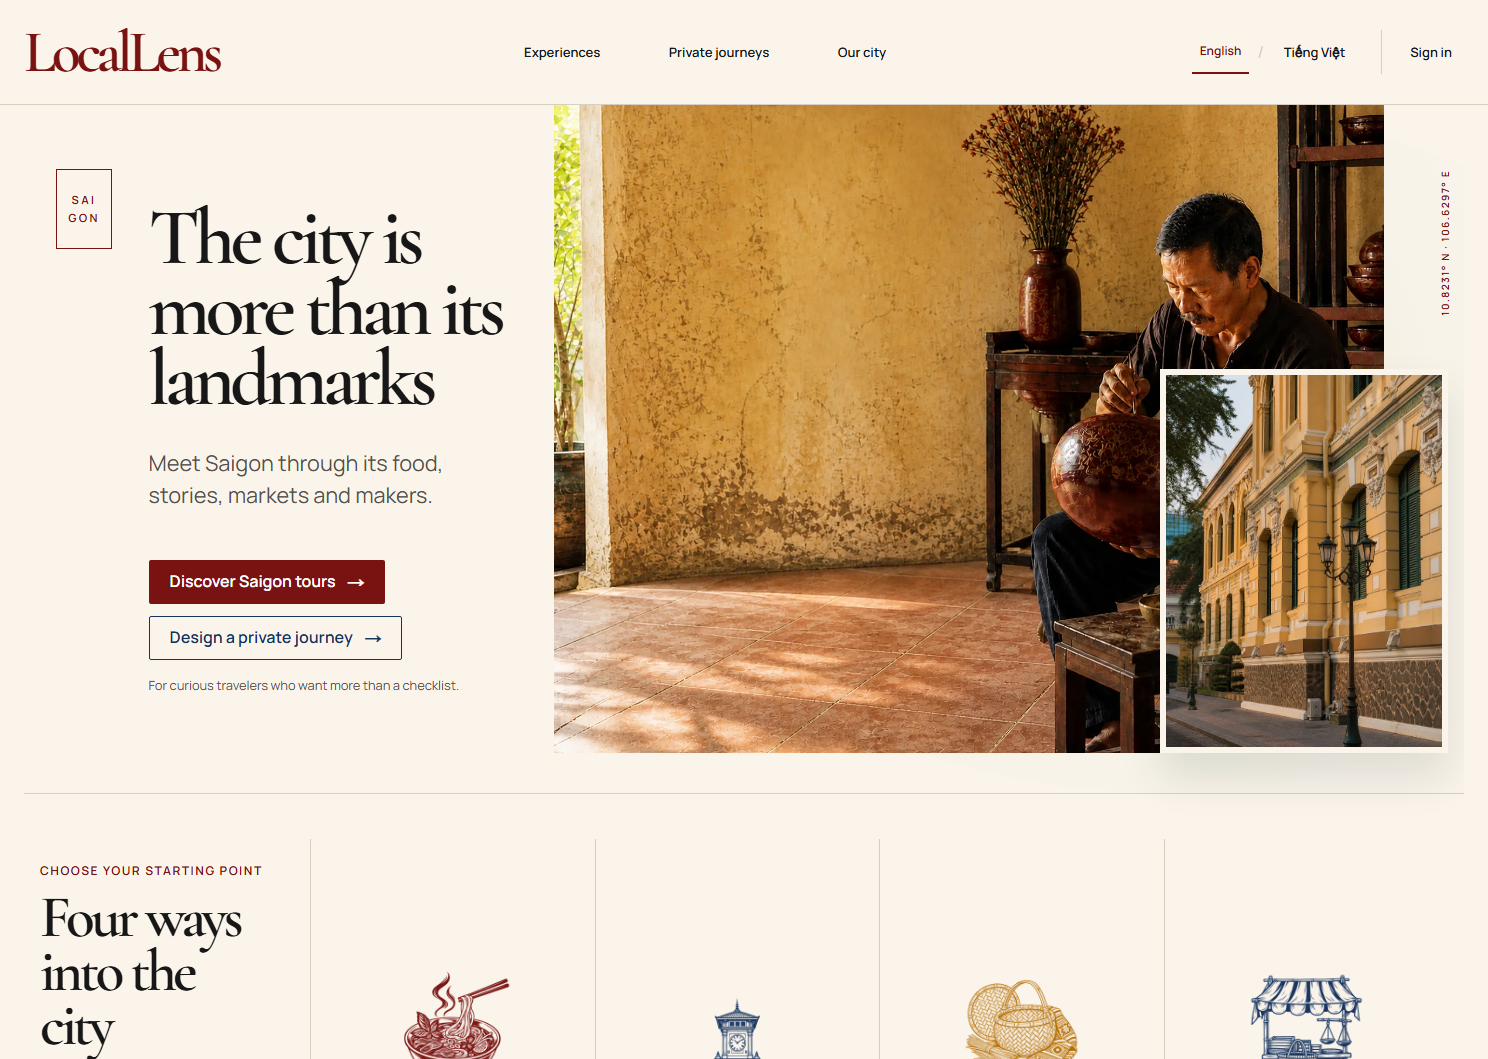
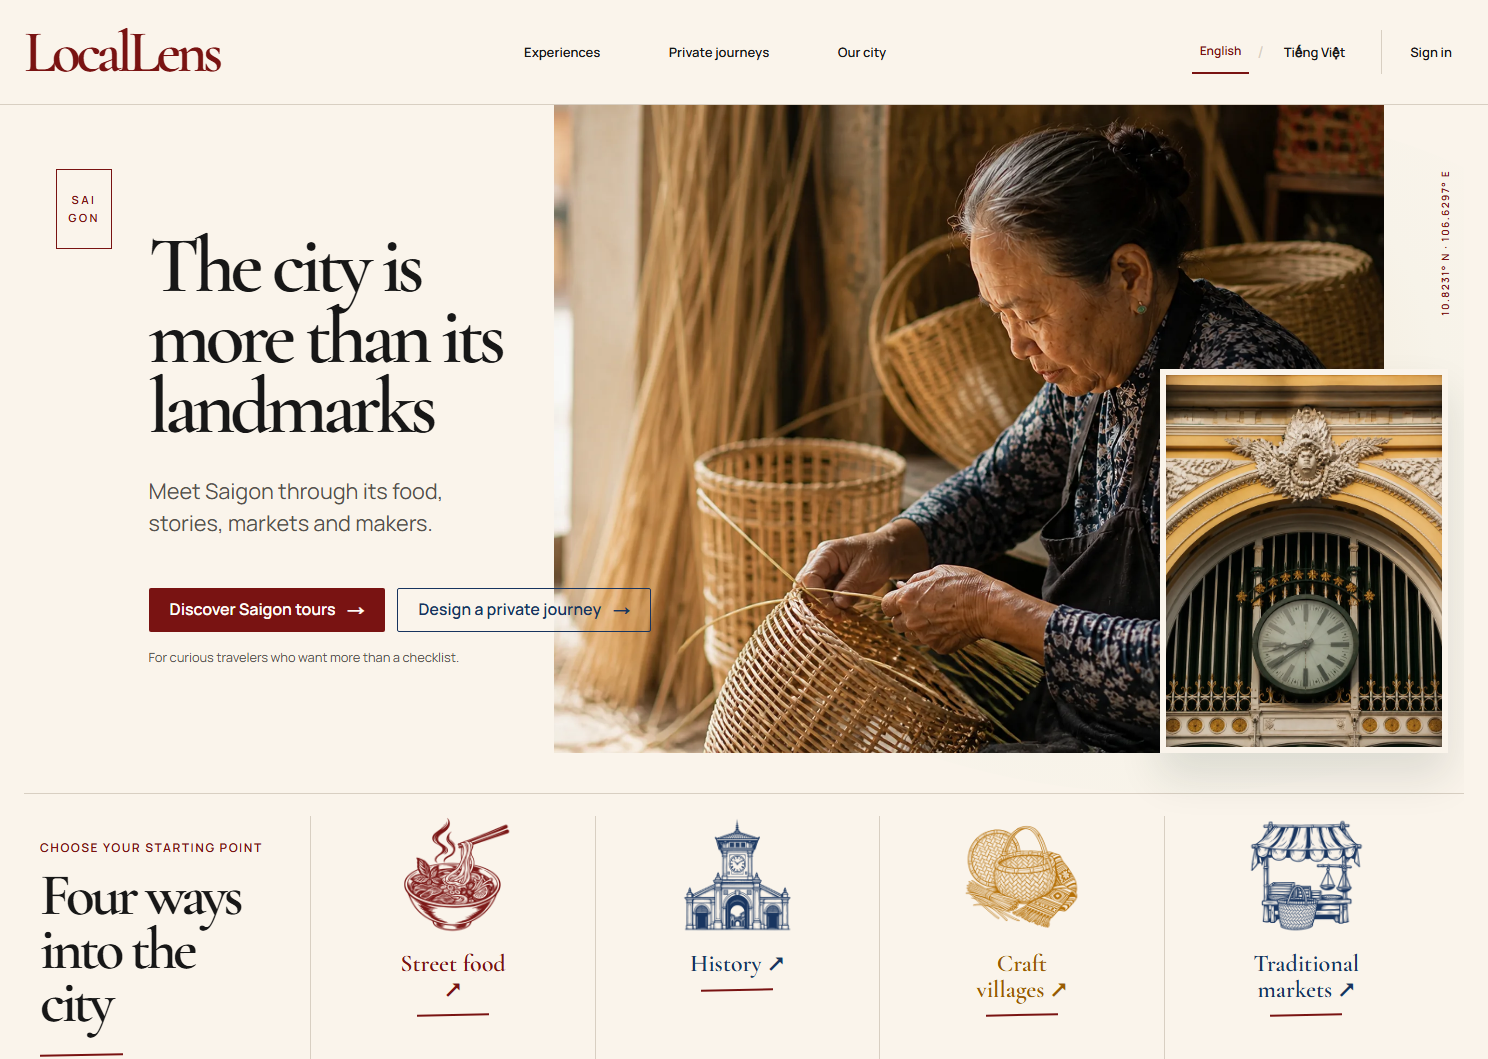
test: approve LocalLens editorial customer experience

diff --git a/design-qa.md b/design-qa.md
@@ -2,49 +2,52 @@
 
 ## Scope and evidence
 
[2 lines of base64/hex data omitted]
 - Desktop implementation capture: `docs/design/qa/home-desktop-implementation.png` (`1488 × 1059`).
 - Desktop full-view comparison: `docs/design/qa/home-desktop-comparison.png` (`2976 × 1059`, source and implementation side by side).
 - Tablet capture: `docs/design/qa/home-tablet.png` (`768 × 1024`).
 - Mobile capture: `docs/design/qa/home-mobile.png` (`390 × 844`).
-- QA-only equal-size derivatives used by `node scripts/process-editorial-assets.mjs compare`: `.superpowers/sdd/2026-08-30-localens-editorial-design-restoration/task-8-qa/reference-1488x1059.png` and `implementation-1488x1059.png`. Each was made on a `1488 × 1059` canvas by cropping the implementation capture to the native source size where needed, then extending the right and bottom edges by one pixel with the page-paper color. These derivatives are not the native source.
+- QA-only equal-size derivatives used by `node scripts/process-editorial-assets.mjs compare`: `.superpowers/sdd/2026-08-30-localens-editorial-design-restoration/task-8-qa/reference-1488x1059.png` and `implementation-1488x1059.png`. Each derives a `1488 × 1059` canvas by retaining the top-left `1487 × 1058` pixels and extending the right and bottom edges by one pixel with the page-paper color (`#FAF4EB`). These derivatives are not the native source.
 - Browser/state: Playwright Chromium, DPR 1, fresh localStorage/sessionStorage per page, reduced-motion media emulation, CSS animation/transition suppression for captures, local fonts and images awaited, no external data.
 - Route states: `/en/` and `/vi/` home, `/en/tours/` demo catalog, `/en/planner/` default demo proposal without a handoff, `/en/custom-request/` missing-handoff boundary, and `/en/booking/` with the allowlisted demo departure and `partySize=1`.
-- Full-page route evidence is also written to ignored `test-results/customer-visual/` for every route and viewport. The comparison is a visual review of the whole required desktop viewport, with focused inspection of the header, hero, CTAs, inset, and discovery row; no additional crop was needed to establish the findings below.
+- Full-page route evidence is written to ignored `test-results/customer-visual/` for every route and viewport. The combined desktop comparison is the primary whole-viewport evidence; focused inspection covered the header/navigation, hero title and mark, CTA group, hero/inset imagery, coordinates, and discovery row. Tablet and mobile captures were inspected separately for reflow, focus, contrast, and clipping.
 
 ## Surface verdicts
 
 | Surface | Verdict | Evidence |
 | --- | --- | --- |
-| Fonts and typography | Partial match | Display/body pairing and general editorial hierarchy are present; the implementation’s hero title/CTA scale and discovery text position do not match the selected source at the required desktop viewport. |
-| Spacing and layout | Blocked | Hero CTA buttons stack in the implementation while the selected source keeps them inline; discovery labels fall below the desktop viewport instead of appearing in the selected above-fold composition. |
-| Colors and tokens | Partial match | Paper, ink, vermilion, indigo, and ochre editorial palette are coherent; responsive ochre category text fails the measured normal-text contrast threshold below. |
-| Image quality | Blocked | Assets decode and load cleanly, but the hero and inset depict different scenes/crops from the selected source. |
-| Copy and content | Partial match | Core LocalLens copy is localized and readable; the selected source’s `Journal` navigation item and stamp detail are absent. |
-| Responsiveness | Pass with open visual findings | No horizontal overflow at 1488×1059, 768×1024, or 390×844; tablet/mobile stack cleanly, but the desktop/source fidelity findings remain open. |
-| Interactions | Pass | Route-correct home/tours/planner/custom-request/booking links, keyboard skip-link focus, and deterministic demo states were exercised. |
-| Accessibility | Blocked | Heading order, landmarks, form labels, image alt presence, visible focus, overflow, and browser diagnostics passed; tablet/mobile `Craft villages` text/link measured 3.70:1 against a 4.5:1 normal-text target. Text zoom and reduced-motion smoke checks are present in the suite, but this contrast finding remains actionable. |
+| Fonts and typography | Pass | Cormorant display and Manrope body pairing, hierarchy, wrapping, and EN/VI text remain coherent at desktop, tablet, and mobile sizes. The revised hero scale and discovery placement now preserve the source hierarchy without clipping. |
+| Spacing and layout | Pass | The desktop CTAs are inline at `1488 × 1059`, discovery headings/rules are visible within the first viewport, and tablet/mobile reflow keeps the content ordered and usable. |
+| Colors and visual tokens | Pass | Paper, ink, vermilion, indigo, and accessible ochre tokens remain coherent; the previous `Craft villages` contrast failure is cleared by the revised token and fresh browser assertions. |
+| Image quality and asset fidelity | Pass | The hero and inset now use the approved artisan and Saigon architecture imagery with clean decoding, matching subject/art direction, correct crop treatment, and verified local alt text. |
+| Copy and content | Pass with approved omissions | Core customer copy is localized and readable. The selected `Journal` navigation item is intentionally omitted because no real Journal route exists, and the tiny secondary stamp line is intentionally omitted because the approved product contract retains only the `SAI/GON` mark and coordinates. These are ledger-approved, non-actionable deviations. |
+| Responsiveness | Pass | No horizontal overflow at `1488 × 1059`, `768 × 1024`, or `390 × 844`; desktop first-fold composition is restored and tablet/mobile stacks remain legible and unclipped in the inspected captures. |
+| Interactions | Pass | Route-correct home/tours/planner/custom-request/booking links, keyboard skip-link focus, deterministic demo states, and localized navigation were exercised. |
+| Accessibility | Pass (smoke scope) | Heading order, landmarks, form labels, meaningful/empty alt text, visible focus, overflow, text zoom, reduced motion, contrast, and browser diagnostics pass in the fresh focused suite. This is an accessibility smoke result, not a full WCAG conformance claim. |
 
-## Findings and ownership
+## Comparison history and resolution
 
-| ID / priority | Finding and evidence | Owner / required fix | Same-state post-fix comparison |
+| ID / priority | Original finding | Fix and same-state post-fix evidence | Status |
 | --- | --- | --- | --- |
-| VIS-01 / P1 | The key hero photograph and architecture inset in `home-desktop-comparison.png` show materially different subjects and crops from the selected source. | Product Design + editorial asset owner. If the selected source is normative, replace/re-crop only the approved editorial assets and rerun the same 1488×1059 comparison. | No fix was made in Task 8; finding remains open, so no post-fix comparison exists. |
-| VIS-02 / P1 | At 1488×1059 the implementation stacks “Discover Saigon tours” and “Design a private journey” vertically, while the selected source presents both CTAs on one row. | Customer-home editorial layout owner (`app/styles/editorial-home.css`). Adjust the desktop hero content/CTA geometry, then rerun the same state and viewport. | No fix was made in Task 8; finding remains open, so no post-fix comparison exists. |
-| VIS-03 / P1 | The selected source shows the discovery category labels and rules fully within the required desktop viewport; the implementation viewport ends while the category cards are still at their icon/title region. | Customer-home editorial layout owner (`app/styles/editorial-home.css`). Rebalance first-fold hero/discovery heights and card alignment, then rerun comparison. | No fix was made in Task 8; finding remains open, so no post-fix comparison exists. |
-| A11Y-01 / P2 | Playwright measured `Craft villages` heading/link at 3.70:1 on tablet and mobile, below the 4.5:1 normal-text target. The focused suite consequently fails these accessibility assertions on those viewports. | Customer-home color/token owner (`app/styles/editorial-home.css` / editorial color token). Darken ochre or otherwise increase text contrast without changing meaning; rerun tablet/mobile smoke checks. | No fix was made in Task 8; finding remains open, so no post-fix comparison exists. |
-| CONTENT-01 / P2 | The selected header contains `Journal`; the implementation header does not. The selected stamp also includes a small secondary line absent from the implementation. | Product Design + shell/content owner. Confirm whether these source details are in scope; if yes, add localized copy/navigation and rerun the source comparison. | No fix was made in Task 8; finding remains open, so no post-fix comparison exists. |
+| VIS-01 / P1 | The original hero photograph and architecture inset showed materially different subjects and crops from the selected source. | Asset remediation `5f5d739` replaced the approved hero/inset assets and `4f19637` aligned EN/VI alt text. The regenerated equal-size comparison shows the artisan and architecture subjects in the intended editorial treatment; processor check and focused asset/i18n tests pass. | Resolved; no actionable P0/P1/P2 remains. |
+| VIS-02 / P1 | At `1488 × 1059`, the original implementation stacked the two hero CTAs while the source kept them inline. | Home layout fix `6bdcb03` constrains the desktop action row. The fresh `home-desktop-implementation.png` and regenerated comparison show both CTAs aligned on one row in the same viewport/state. | Resolved; no actionable P0/P1/P2 remains. |
+| VIS-03 / P1 | The original desktop viewport ended before the discovery category labels and rules were visible. | Home layout fix `6bdcb03` rebalanced first-fold geometry. The fresh desktop capture and comparison show all four category headings and rules within the required viewport. | Resolved; no actionable P0/P1/P2 remains. |
+| A11Y-01 / P2 | The original tablet/mobile `Craft villages` text measured `3.70:1`, below the `4.5:1` normal-text target. | Home color fix `6bdcb03` uses the accessible ochre token. Fresh focused Playwright checks at all three viewports report no contrast violations. | Resolved; no actionable P0/P1/P2 remains. |
+| CONTENT-01 / P2 | The source contains `Journal` and a tiny secondary stamp line absent from the implementation. | The ledger explicitly approves both omissions: no fake/unimplemented Journal route and no unreadable decorative stamp copy. The retained `SAI/GON` mark, coordinates, and real route navigation are the product truth. | Accepted intentional omissions; not actionable. |
 
-No P0 findings were observed. The P1/P2 findings are actionable and prevent approval; route/CSS/product code was intentionally not changed within this QA task.
+## Deterministic visual review
+
+- Full-view comparison evidence is the regenerated `2976 × 1059` side-by-side PNG, with the native source represented only by its documented one-pixel right/bottom QA derivative. The derivative is not presented as the source of truth.
+- Focused review found no remaining P0/P1/P2 mismatch in the header, hero title/mark, CTA geometry, imagery, inset, coordinates, discovery row, or responsive reflow. Minor responsive composition differences are expected adaptations, not actionable fidelity regressions.
 
 ## Verification record
 
-- Focused QA run before the contrast assertion was added: `pnpm exec playwright test tests/e2e/customer-visual.spec.ts --workers=1` — `6 passed`.
-- Current focused QA run with the contrast smoke assertion: `pnpm exec playwright test tests/e2e/customer-visual.spec.ts --workers=1` — `2 passed`, `4 failed` (tablet and mobile accessibility smoke checks fail on A11Y-01; desktop checks pass). This is an expected blocking result, not an approval claim.
-- The original brief command with pnpm’s extra `--` forwarding also ran `static-shell.spec.ts` and exposed transient Next dev compilation JSON overlays under parallel workers; the config is now serial (`fullyParallel: false`, `workers: 1`) for deterministic local evidence.
-- `pnpm check`: exit 1. `eslint . --max-warnings=0` and `tsc --noEmit` completed; Vitest reported `61 passed` files / `723 passed` tests and `2 failed` files / `2 failed` tests. Existing failures are `tests/unit/supabase/artifacts.test.ts` and `tests/unit/supabase/rls-matrix.test.ts`; the checker reports `data-access-matrix.md: generated Markdown drift; run node scripts/generate-data-access-matrix.mjs`. These are outside the Task 8 allowlist and were not changed.
-- Independent `pnpm build`: exit 0; Next compiled, typechecked, and generated all 14 static pages.
-- Full `pnpm test:e2e`: exit 1; `5 passed`, `4 failed` in `36.0s`. The three static-shell tests and desktop customer checks passed. Four tablet/mobile customer checks failed only on the measured `Craft villages` contrast assertion (A11Y-01), preserving the blocking result.
-- Scope review against `TASK10_SHA=cd73aaca1e4b37b8f436c0a251e369ee9085050d`: `git diff cd73aaca1e4b37b8f436c0a251e369ee9085050d...HEAD --stat` lists the pre-existing editorial restoration history plus the current QA files; `git diff cd73aaca1e4b37b8f436c0a251e369ee9085050d...HEAD -- supabase lib/domain` produced no output. Task 8 does not modify business/domain/database files.
+- `node scripts/process-editorial-assets.mjs check`: PASS; all 6 editorial assets decode at their exact dimensions and satisfy size/alpha bounds.
+- `node scripts/process-editorial-assets.mjs compare .superpowers/sdd/2026-08-30-localens-editorial-design-restoration/task-8-qa/reference-1488x1059.png .superpowers/sdd/2026-08-30-localens-editorial-design-restoration/task-8-qa/implementation-1488x1059.png docs/design/qa/home-desktop-comparison.png`: PASS; output is `2976 × 1059`.
+- Focused QA: `pnpm exec playwright test tests/e2e/customer-visual.spec.ts --workers=1`: PASS; `6 passed (40.0s)`. The run covered all six customer routes at each of the required desktop/tablet/mobile viewports, route assertions, no overflow, focus, labels, alt text, reduced motion, text zoom, contrast, console/page diagnostics, and fresh home captures.
+- `pnpm check`: PASS. ESLint and `tsc --noEmit` completed successfully; Vitest reported `63 passed` files / `726 passed` tests; the production build generated all 14 static/SSG pages.
+- Full `pnpm test:e2e`: PASS; `9 passed (1.1m)`, including all six visual/customer checks and all three localized static-shell checks.
+- Independent Home review and asset re-review both returned PASS with zero remaining Critical/Important/Minor findings before integration.
+- Database runtime verification remains a separate gate; no runtime Supabase claim is made by this presentation QA.
 
-final result: blocked
+final result: passed
